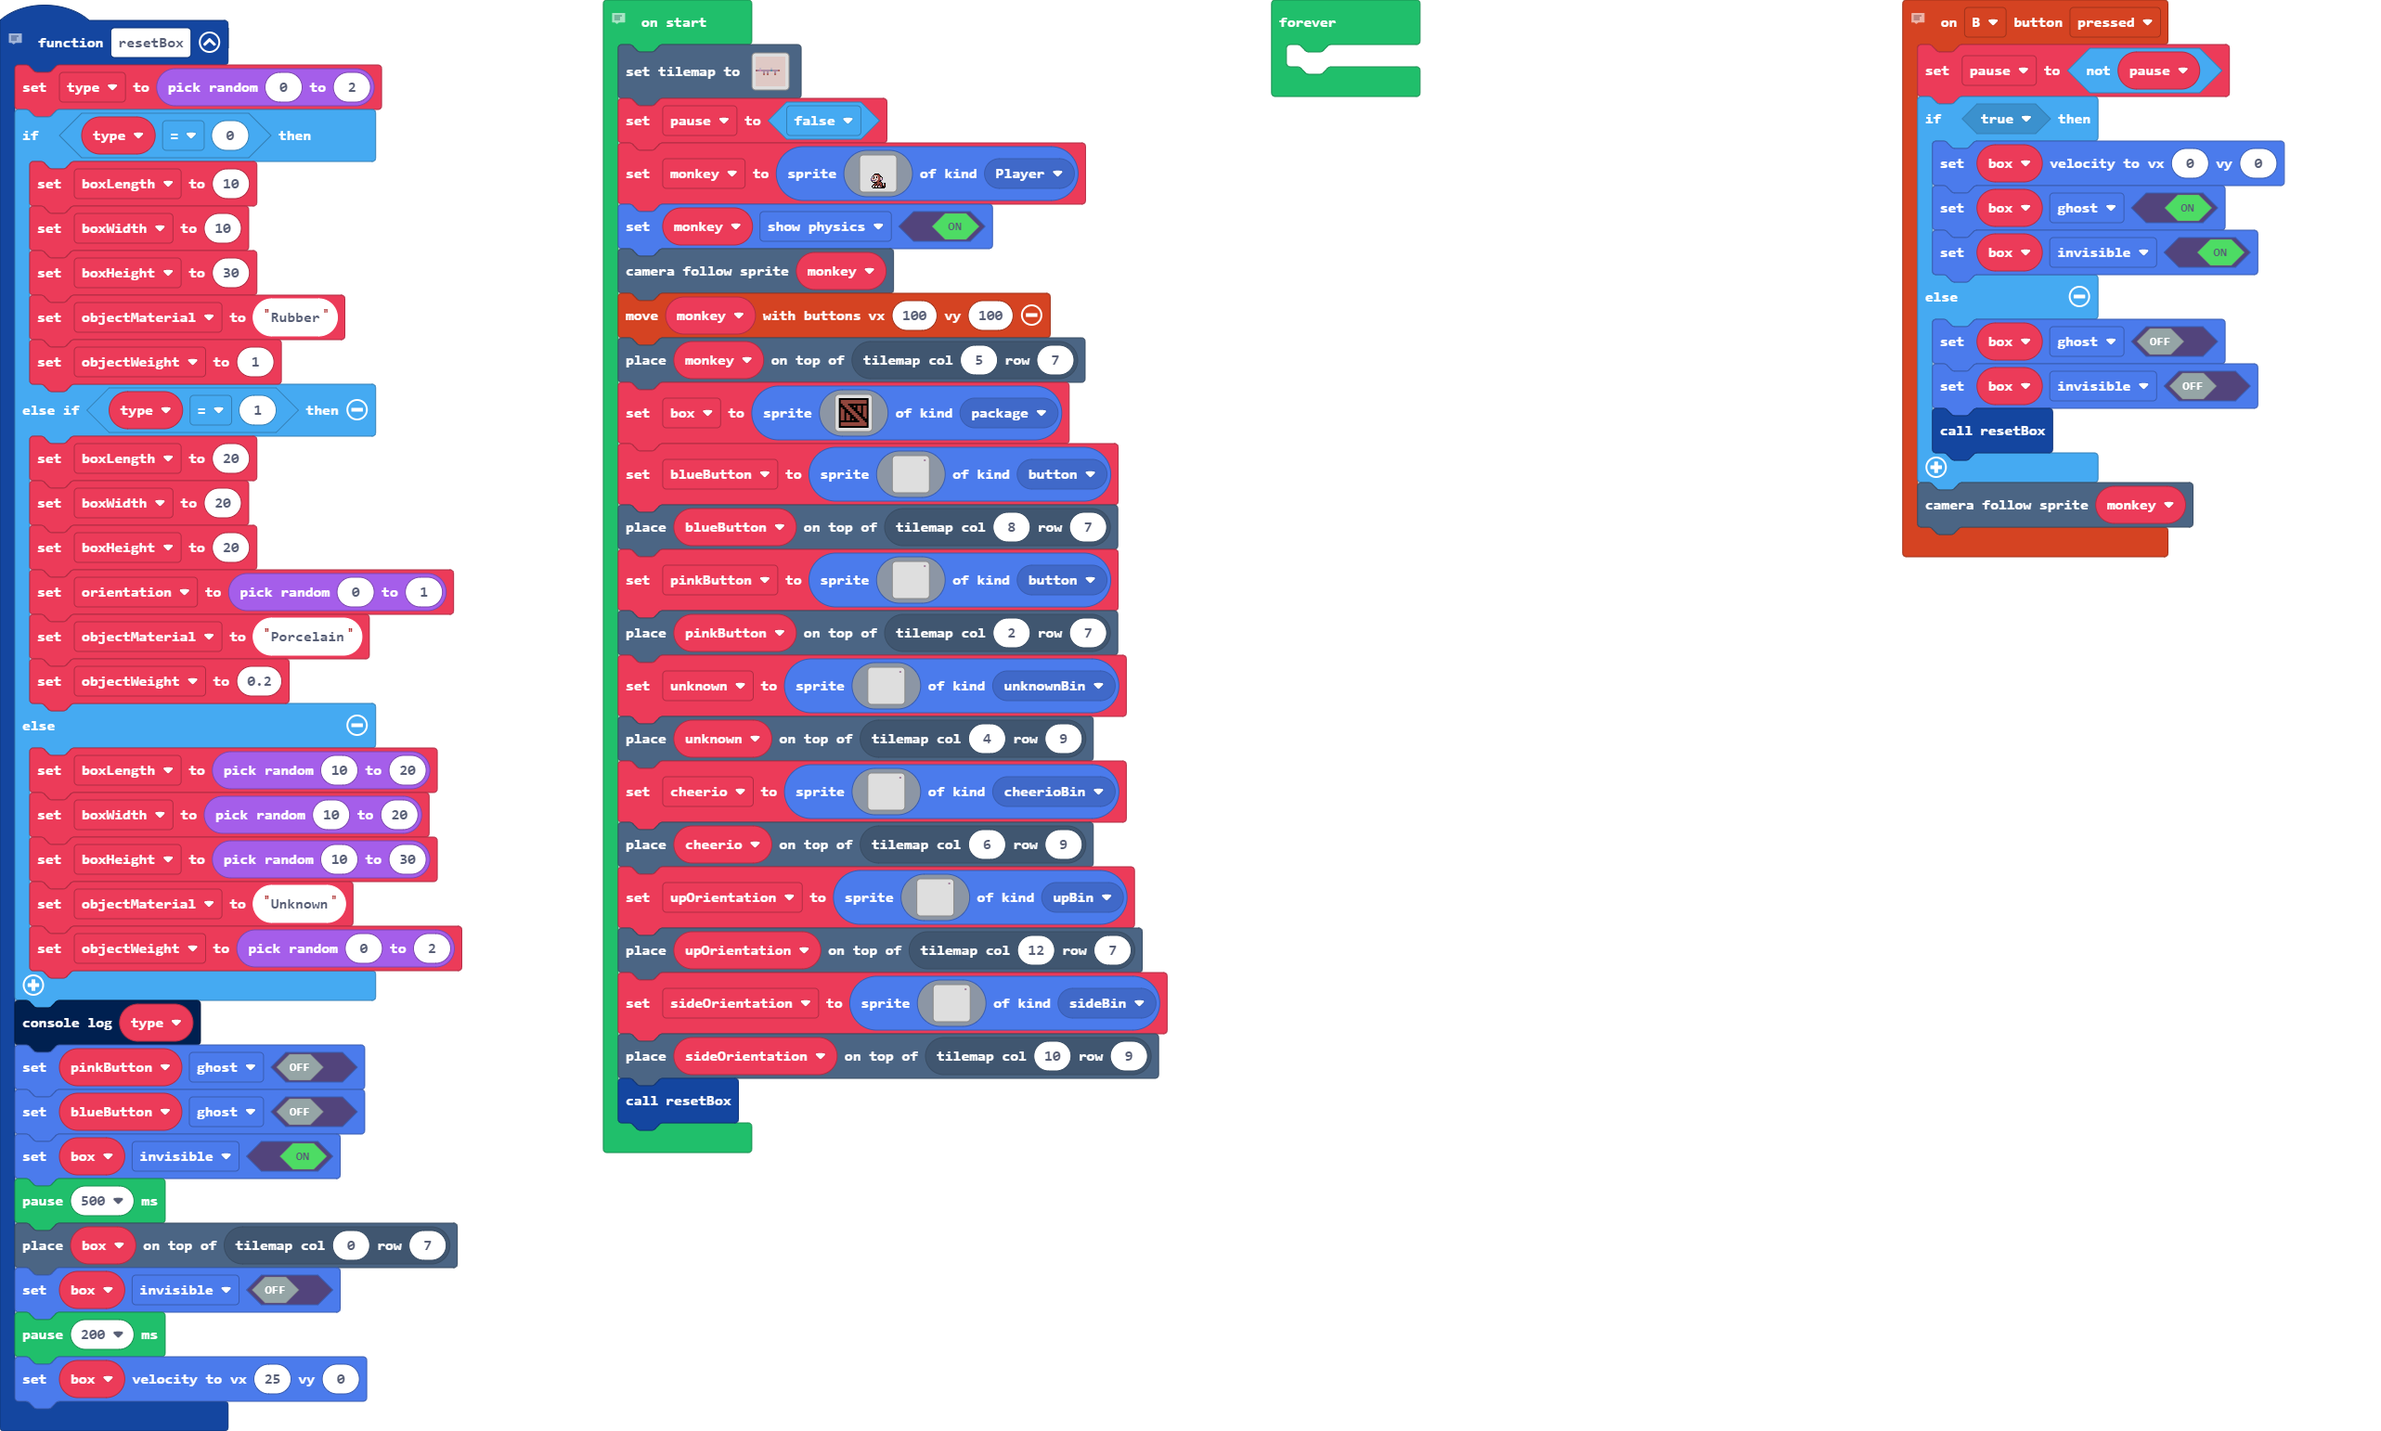
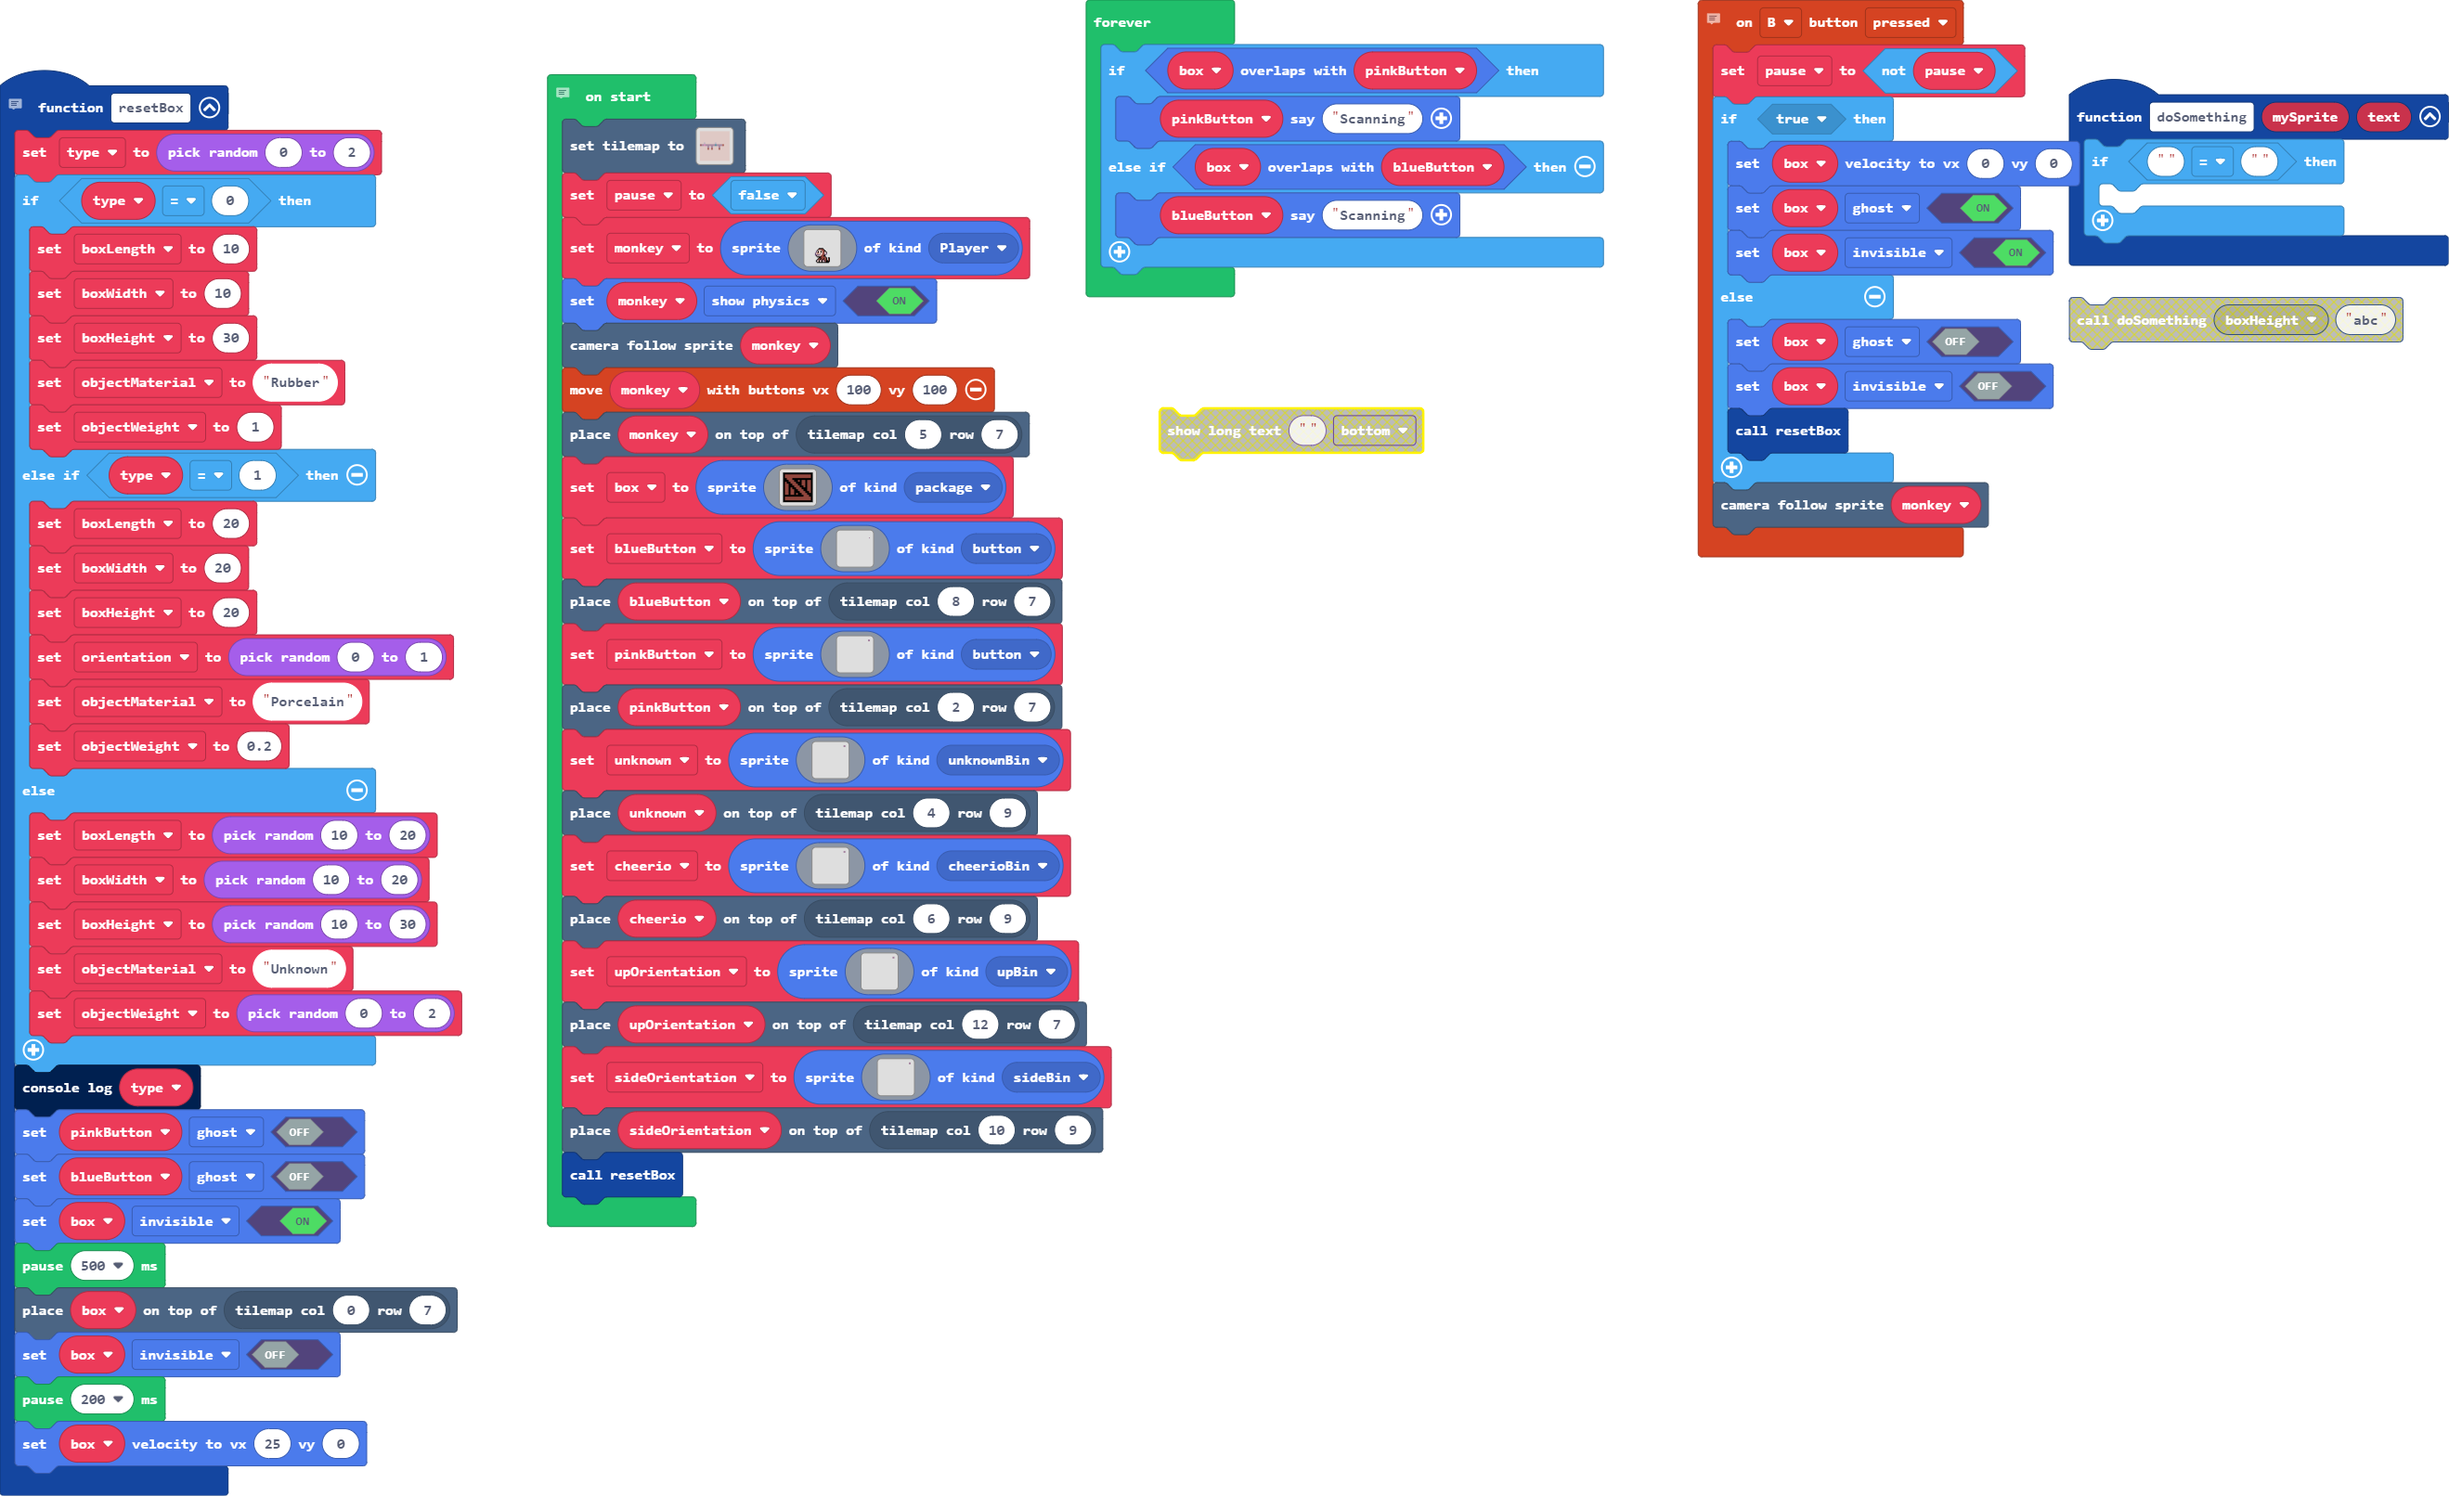
Update pxt.json, main.blocks, main.ts, tilemap.g.jres, tilemap.g.ts

diff --git a/main.ts b/main.ts
@@ -55,6 +55,11 @@ function resetBox () {
     pause(200)
     box.setVelocity(25, 0)
 }
+function doSomething (mySprite: Sprite, text: string) {
+    if ("" == "") {
+    	
+    }
+}
 // Create and place game map and objects
 let orientation = 0
 let objectWeight = 0
@@ -144,22 +149,30 @@ box = sprites.create(img`
     f f f f f f f f f f f f f f f f 
     `, SpriteKind.package)
 blueButton = sprites.create(img`
-    . . . . . . . . . . . . . . . b 
-    . . . . . . . . . . . . . . . . 
-    . . . . . . . . . . . . . . . . 
-    . . . . . . . . . . . . . . . . 
-    . . . . . . . . . . . . . . . . 
-    . . . . . . . . . . . . . . . . 
-    . . . . . . . . . . . . . . . . 
-    . . . . . . . . . . . . . . . . 
-    . . . . . . . . . . . . . . . . 
-    . . . . . . . . . . . . . . . . 
-    . . . . . . . . . . . . . . . . 
-    . . . . . . . . . . . . . . . . 
-    . . . . . . . . . . . . . . . . 
-    . . . . . . . . . . . . . . . . 
-    . . . . . . . . . . . . . . . . 
-    . . . . . . . . . . . . . . . . 
+    ...............................b
+    ................................
+    ................................
+    ................................
+    ................................
+    ................................
+    ................................
+    ................................
+    ................................
+    ................................
+    ................................
+    ................................
+    ................................
+    ................................
+    ................................
+    ................................
+    ................................
+    ................................
+    ................................
+    ................................
+    ................................
+    ................................
+    ................................
+    ................................
     `, SpriteKind.button)
 tiles.placeOnTile(blueButton, tiles.getTileLocation(8, 7))
 pinkButton = sprites.create(img`
@@ -259,5 +272,9 @@ let sideOrientation = sprites.create(img`
 tiles.placeOnTile(sideOrientation, tiles.getTileLocation(10, 9))
 resetBox()
 forever(function () {
-	
+    if (box.overlapsWith(pinkButton)) {
+        pinkButton.say("Scanning")
+    } else if (box.overlapsWith(blueButton)) {
+        blueButton.say("Scanning")
+    }
 })

diff --git a/tilemap.g.ts b/tilemap.g.ts
@@ -7,5 +7,29 @@ namespace myTiles {
     //% fixedInstance jres blockIdentity=images._tile
     export const tile2 = image.ofBuffer(hex``);
 
+    helpers.registerTilemapFactory(function(name: string) {
+        switch(helpers.stringTrim(name)) {
+            case "level": return tiles.createTilemap(hex`1000100004040404040404040404040404040404040404040404040404040404040404040404040404040404040404040404040404040404040404040404040404040404040404040404040404040404040404040404040404040404040404040404040404040704040404040704040404040404080105010901090106010901030404040404040402040204040402040404040404040404030403040404030404040404040404040404040404040404040404040404040404040404040404040404040404040404040404040404040404040404040404040404040404040404040404040404040404040404040404040404040404040404040404040404040404040404`, img`
+. . . . . . . . . . . . . . . . 
+. . . . . . . . . . . . . . . . 
+. . . . . . . . . . . . . . . . 
+. . . . . . . . . . . . . . . . 
+. . . . . . . . . . . . . . . . 
+. . . . . . . . . . . . . . . . 
+. . . . . . . . . . . . . . . . 
+. . . . . . . . . . . . . . . . 
+. . . . . . . . . . . . . . . . 
+. . . . . . . . . . . . . . . . 
+. . . . . . . . . . . . . . . . 
+. . . . . . . . . . . . . . . . 
+. . . . . . . . . . . . . . . . 
+. . . . . . . . . . . . . . . . 
+. . . . . . . . . . . . . . . . 
+. . . . . . . . . . . . . . . . 
+`, [myTiles.transparency16,sprites.vehicle.roadHorizontal,sprites.vehicle.roadVertical,sprites.dungeon.chestClosed,sprites.dungeon.floorLight2,sprites.dungeon.buttonPink,sprites.dungeon.buttonTeal,myTiles.tile1,sprites.dungeon.chestOpen,myTiles.tile2], TileScale.Sixteen)
+        }
+        return null;
+    })
+
 }
 // Auto-generated code. Do not edit.
